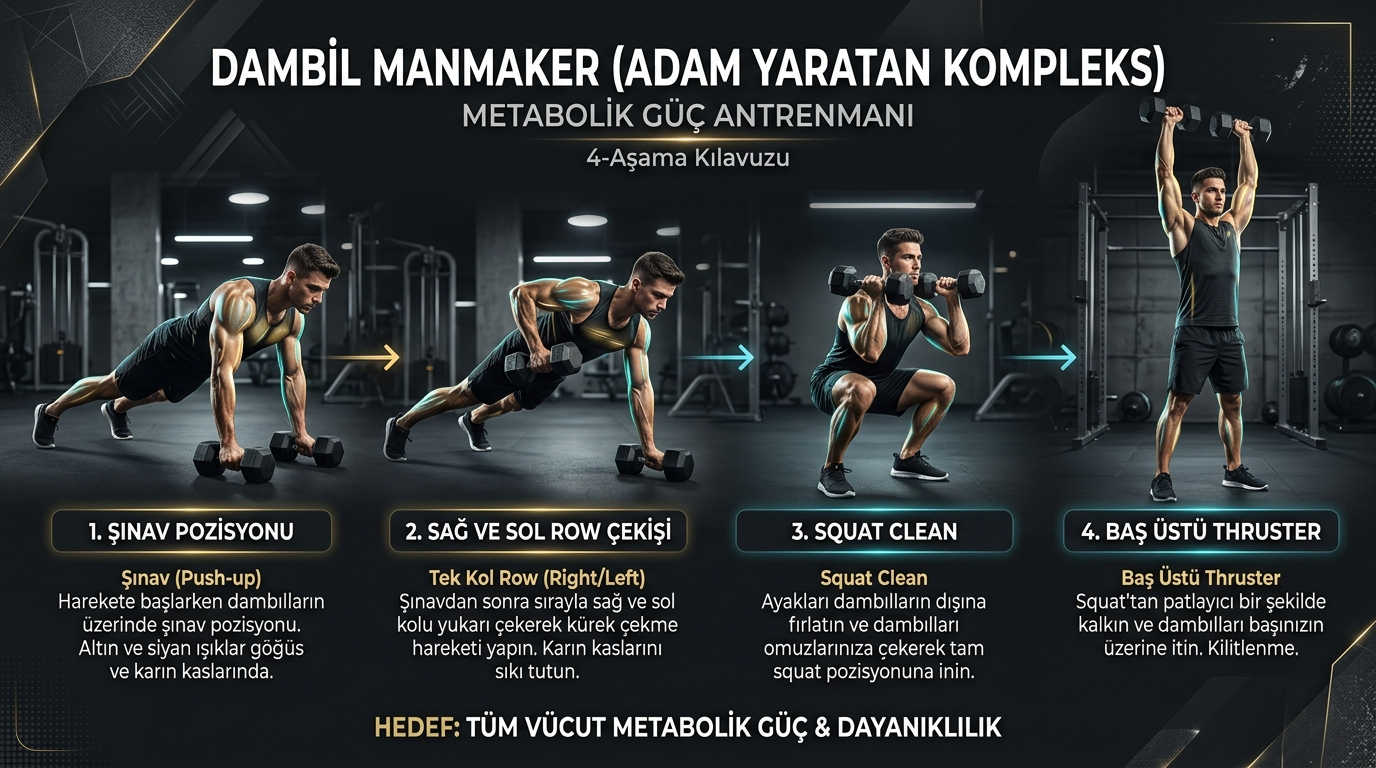
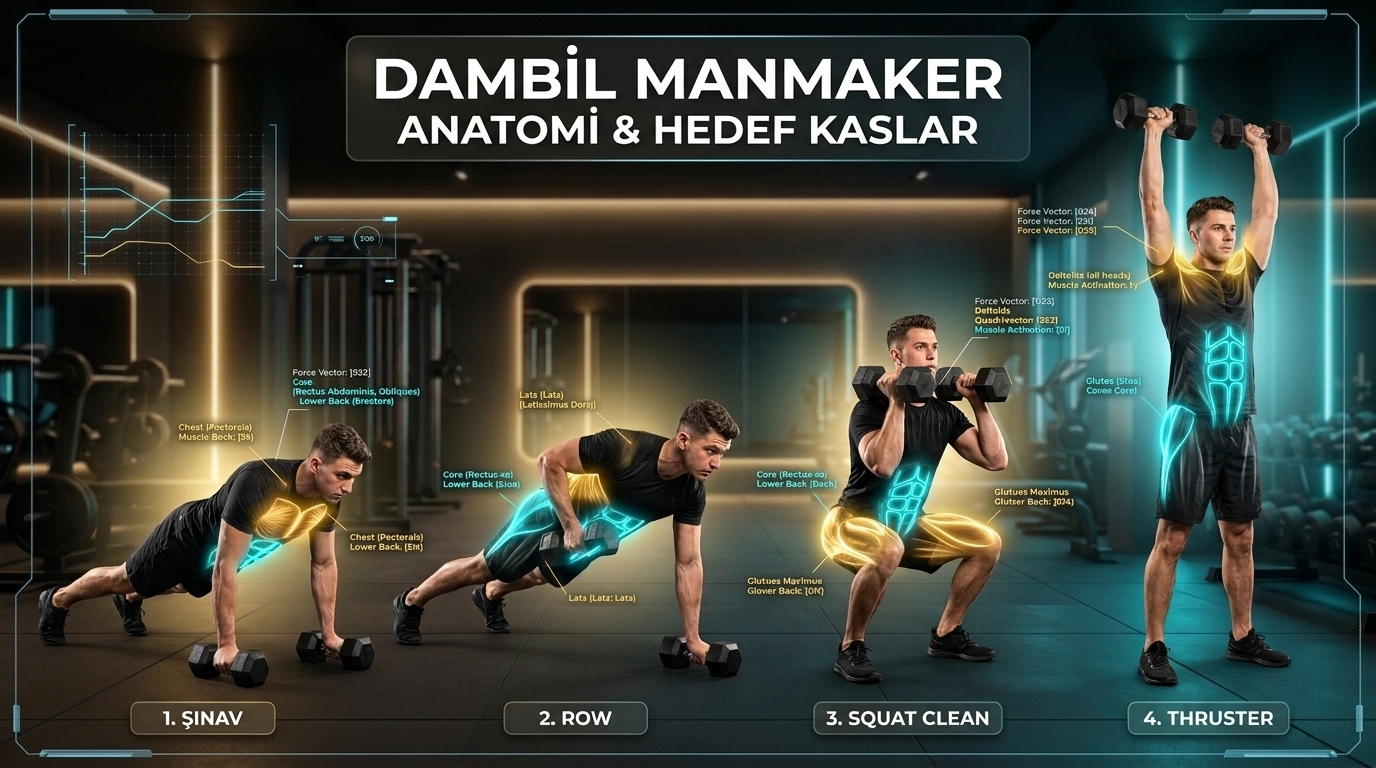
fix(guides): replace db_manmaker form and anatomi guides with consistent 4-step sequence (v120)

diff --git a/index.html b/index.html
@@ -3709,7 +3709,7 @@
     <div id="loginScreen">
         <div class="login-card">
             <div class="login-logo">⚔</div>
-            <div class="badge-brand">LA FORJA • EL CÓDIGO DEL ACERO • v119</div>
+            <div class="badge-brand">LA FORJA • EL CÓDIGO DEL ACERO • v120</div>
             <h1 class="login-title">AKILLI ANTRENMAN PORTALI</h1>
             <p class="login-subtitle">Hedef Bölgeni Seç • Ekipmanını Belirle • Anında Üret</p>
 
@@ -3745,7 +3745,7 @@
                 <div class="modern-brand" onclick="switchTab('generatorTab')" title="Ana Ekrana Dön">
                     <span class="modern-brand-logo">⚔</span>
                     <span class="modern-brand-title">ÇELİK KODU</span>
-                    <span class="app-version-badge" id="appVersionBadge" onclick="event.stopPropagation(); forceAppUpdate();" style="cursor:pointer;" title="Sürümü ve Önbelleği Yenilemek İçin Dokunun">v119</span>
+                    <span class="app-version-badge" id="appVersionBadge" onclick="event.stopPropagation(); forceAppUpdate();" style="cursor:pointer;" title="Sürümü ve Önbelleği Yenilemek İçin Dokunun">v120</span>
                 </div>
                 <div class="modern-bar-actions">
                     <span class="cloud-sync-badge" id="headerCloudSyncBadge" title="Firebase Bulut Veritabanı">☁ Bulut Aktif</span>
@@ -17839,7 +17839,7 @@ Antrenman tüm setler, kilolar ve çalışan kas gruplarıyla günlüğe kaydedi
 
         if ('serviceWorker' in navigator) {
             window.addEventListener('load', () => {
-                navigator.serviceWorker.register('./sw.js?v=119')
+                navigator.serviceWorker.register('./sw.js?v=120')
                     .then(reg => {
                         console.log('SW scope:', reg.scope);
                         // Yeni sürümü hemen kontrol et

diff --git a/sw.js b/sw.js
@@ -1,4 +1,4 @@
-const CACHE_NAME = 'celik-kodu-cache-v119';
+const CACHE_NAME = 'celik-kodu-cache-v120';
 const ASSETS = [
   './',
   './assets/guides/guide_bb_thruster_form.png',
@@ -13,6 +13,7 @@ const ASSETS = [
   './assets/guides/guide_bear_crawl_pull_through_form.jpg',
   './assets/guides/guide_db_clean_and_press_form.jpg',
   './assets/guides/guide_db_manmaker_form.jpg',
+  './assets/guides/guide_db_manmaker_anatomi.jpg',
   './assets/guides/guide_waiters_carry_form.jpg',
   './assets/guides/guide_cross_body_carry_form.jpg',
   './assets/guides/guide_lunge_with_twist_form.jpg',
